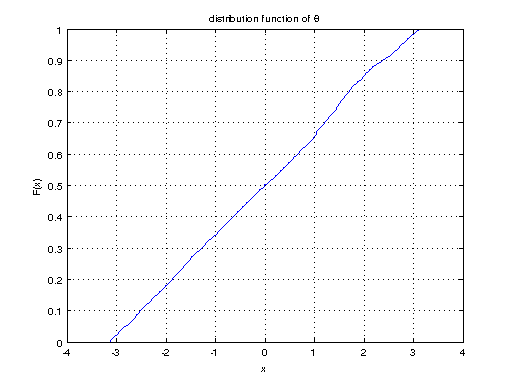
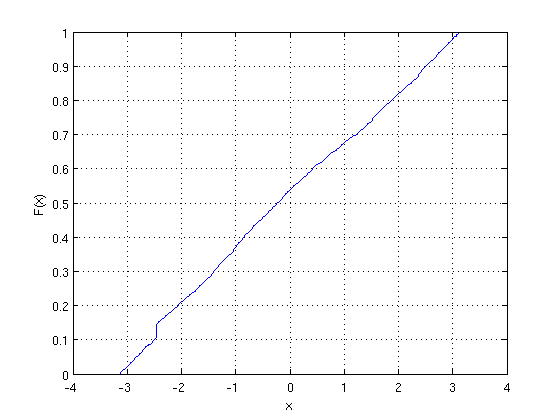
Use the data set given on Jeffrey's homepage.

diff --git a/QRM/hw2_p1a.m b/QRM/hw2_p1a.m
@@ -1,21 +1,41 @@
 clear all
 close all
-mysql = get_mysql();
+% mysql = get_mysql();
 X = NaN(1700, 2);
-assets ={'DAX', 'BMW_DE'};
-for k = 1 : size(X, 2)
-    data = cell2mat(fetch(mysql, sprintf(['select closing from %s order ' ...
-                        'by day desc limit 1701'], assets{k})));
-    X(:, k) = price2ret(flipud(data));
-end
-close(mysql);
+% assets ={'DAX', 'BMW_DE'};
+% for k = 1 : size(X, 2)
+%     data = cell2mat(fetch(mysql, sprintf(['select closing from %s order ' ...
+%                         'by day desc limit 1701'], assets{k})));
+%     X(:, k) = price2ret(flipud(data));
+% end
+% close(mysql);
+A = importdata('DAX.txt');
+X(:, 1) = A(:, 2);
+
+A = importdata('bmw_returns.txt');
+X(:, 2) = A(:, 2);
+
 C = cov(X);
 B = chol(C)';
 Y = inv(B) * (X - repmat(mean(X), size(X, 1), 1))';
+Y = Y';
 
-T1 = trnd(3.5, 2, size(Y, 2));
-X1 = B * T1 + repmat(mean(X)', 1, size(T1, 2));
-L1 = -[100, 100] * X1;
+% Z = NaN(size(Y));
+% angles = NaN(size(Y, 1), 1);
+% for k = 1 : size(Z, 1)
+%     Z(k, :) = Y(k, :) ./ norm(Y(k, :));
+%     angles(k) = angle(Z(k, 1) + i*Z(k, 2));
+% end
+% Tsim = trnd(3.2, size(Y, 1), 2);
+
+Tsim = trnd(3.2, 40000, 2);
+Xsim = Tsim * B';
+W = 100 * ones(1, 2);
+L = -Xsim * W';
+
+
+% X1 = B * T1 + repmat(mean(X)', 1, size(T1, 2));
+% L1 = -[100, 100] * X1;
 
 
 % % angles = NaN(1, size(Z, 1));
